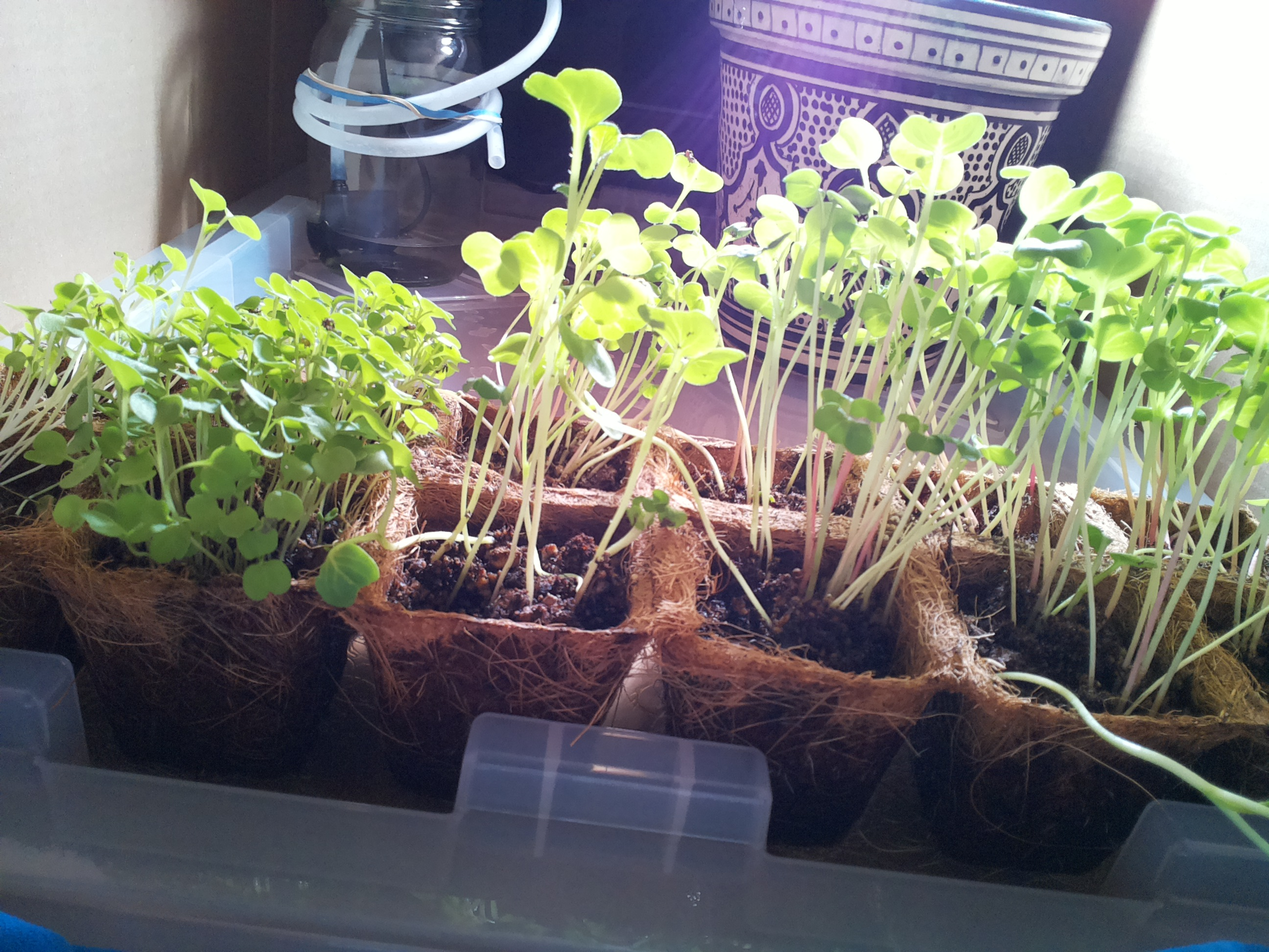
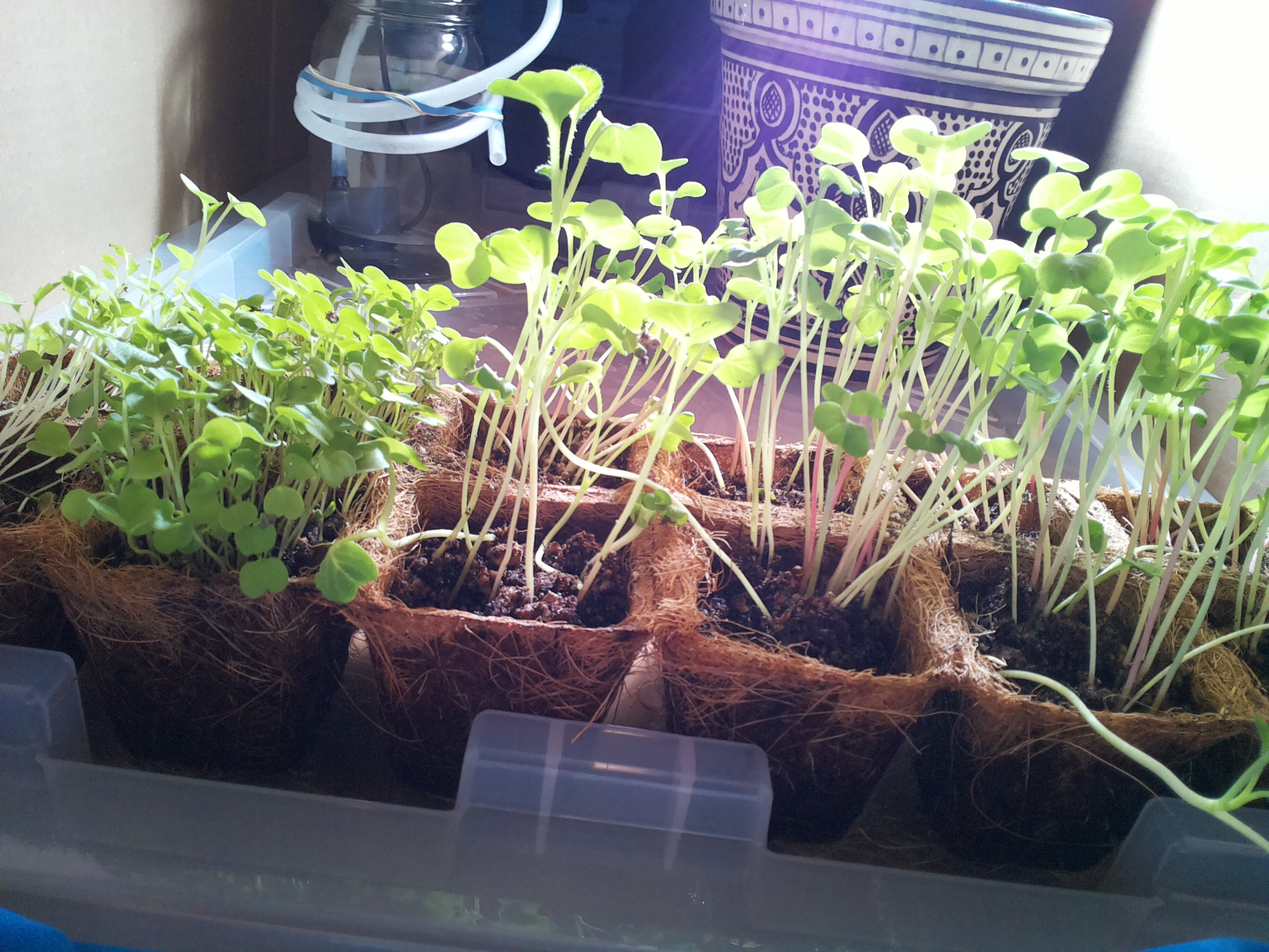
mirror sync 2026-09-06 13:10

diff --git a/JOURNAL.md b/JOURNAL.md
@@ -290,3 +290,11 @@
 - Lamp: on — correct for photoperiod.
 - Watering: 4s pulse per standing order 2 (8s of 60s daily cap used; water.py OK, pump plug verified OFF after).
 - No changes to standing orders. Next: 07:12 pulse unless surfaces look dark.
+
+### 2026-09-06 13:07 — midday check-in (cron) — POWER OUTAGE RECOVERY
+- The Pi rebooted ~11:26 (uptime 1:42 at 13:08); cron.log's last entries are yesterday's lamp-off, so today's 07:02 lamp-on AND the 07:12 check-in (with its morning pulse) never ran. Lamp found OFF at 13:07 → turned ON immediately; ~6h of photoperiod lost today. Cron can't self-heal a missed lamp-on after boot — worth remembering if outages recur.
+- Photo (retaken after lamp-on): seedlings vigorous in all 12 cells (day 13) — tall, leggy, cotyledons broad, turgid, green; true leaves developing. No wilting despite the missed morning pulse; no mold/pests/tipping. Tube in place over the lid.
+- Jar: zoomed photo shows dark water still high in the glass — refill holding, pump body well covered.
+- Soil: visible surfaces mostly dark/damp with perlite showing; some drier crumbly spots. No wilt stress.
+- Watering: none — kept 13:07 observe-only per standing order 2 (soil mostly dark, plants turgid; 0s of daily cap used). Evening 19:22 pulse planned as usual and will cover the missed morning one.
+- No changes to standing orders.
